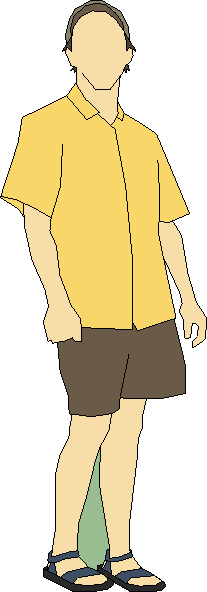
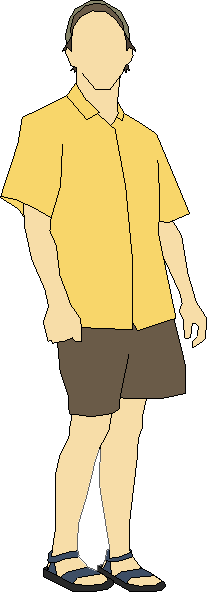
Two tutorials added

Changed region(s): [[0.3478, 0.7601, 0.5507, 0.973]]

diff --git a/src/main/java/org/concord/energy3d/gui/MainFrame.java b/src/main/java/org/concord/energy3d/gui/MainFrame.java
@@ -215,6 +215,7 @@ public class MainFrame extends JFrame {
 	private JCheckBoxMenuItem infoPanelCheckBoxMenuItem;
 	private JMenu templatesMenu;
 	private JMenu otherTemplatesMenu;
+	private JMenu tutorialsMenu;
 
 	private final FileChooser fileChooser;
 	private final JColorChooser colorChooser;
@@ -419,6 +420,7 @@ public class MainFrame extends JFrame {
 			appMenuBar.add(getViewMenu());
 			appMenuBar.add(getAnalysisMenu());
 			appMenuBar.add(getTemplatesMenu());
+			appMenuBar.add(getTutorialsMenu());
 			appMenuBar.add(getHelpMenu());
 
 			addCommonActionListeners(appMenuBar);
@@ -1154,47 +1156,71 @@ public class MainFrame extends JFrame {
 					MainPanel.getInstance().defaultTool();
 				}
 			});
-			addTemplate(templatesMenu, "Apartment 1", "templates/apartment-template-1.ng3");
-			addTemplate(templatesMenu, "Apartment 2", "templates/apartment-template-2.ng3");
-			addTemplate(templatesMenu, "Box Gabled Roof", "templates/box-gabled-template.ng3");
-			addTemplate(templatesMenu, "Bungalow", "templates/bungalow-template.ng3");
-			addTemplate(templatesMenu, "Butterfly Roof", "templates/butterfly-template.ng3");
-			addTemplate(templatesMenu, "Cape Cod", "templates/cape-cod-template.ng3");
-			addTemplate(templatesMenu, "Colonial", "templates/colonial-template.ng3");
-			addTemplate(templatesMenu, "Combination Roof", "templates/combination-roof-template.ng3");
-			addTemplate(templatesMenu, "Cross Gabled Roof", "templates/cross-gabled-template.ng3");
-			addTemplate(templatesMenu, "Cross Hipped Roof", "templates/cross-hipped-template.ng3");
-			addTemplate(templatesMenu, "Dutch Colonial", "templates/gambrel-template.ng3");
-			addTemplate(templatesMenu, "Flat Roof", "templates/flat-roof-template.ng3");
-			addTemplate(templatesMenu, "Gable & Valley Roof", "templates/gable-valley-template.ng3");
-			addTemplate(templatesMenu, "Gablet Roof", "templates/gablet-template.ng3");
-			addTemplate(templatesMenu, "Hip Roof", "templates/hip-roof-template.ng3");
-			addTemplate(templatesMenu, "Hip & Valley Roof", "templates/hip-valley-template.ng3");
-			addTemplate(templatesMenu, "M-Shaped Roof", "templates/m-shaped-template.ng3");
-			addTemplate(templatesMenu, "Mansard", "templates/mansard-template.ng3");
-			addTemplate(templatesMenu, "Saltbox 1", "templates/saltbox-template-1.ng3");
-			addTemplate(templatesMenu, "Saltbox 2", "templates/saltbox-template-2.ng3");
-			addTemplate(templatesMenu, "Shed Roof", "templates/shed-roof-template.ng3");
+			addModel(templatesMenu, "Apartment 1", "templates/apartment-template-1.ng3");
+			addModel(templatesMenu, "Apartment 2", "templates/apartment-template-2.ng3");
+			addModel(templatesMenu, "Box Gabled Roof", "templates/box-gabled-template.ng3");
+			addModel(templatesMenu, "Bungalow", "templates/bungalow-template.ng3");
+			addModel(templatesMenu, "Butterfly Roof", "templates/butterfly-template.ng3");
+			addModel(templatesMenu, "Cape Cod", "templates/cape-cod-template.ng3");
+			addModel(templatesMenu, "Colonial", "templates/colonial-template.ng3");
+			addModel(templatesMenu, "Combination Roof", "templates/combination-roof-template.ng3");
+			addModel(templatesMenu, "Cross Gabled Roof", "templates/cross-gabled-template.ng3");
+			addModel(templatesMenu, "Cross Hipped Roof", "templates/cross-hipped-template.ng3");
+			addModel(templatesMenu, "Dutch Colonial", "templates/gambrel-template.ng3");
+			addModel(templatesMenu, "Flat Roof", "templates/flat-roof-template.ng3");
+			addModel(templatesMenu, "Gable & Valley Roof", "templates/gable-valley-template.ng3");
+			addModel(templatesMenu, "Gablet Roof", "templates/gablet-template.ng3");
+			addModel(templatesMenu, "Hip Roof", "templates/hip-roof-template.ng3");
+			addModel(templatesMenu, "Hip & Valley Roof", "templates/hip-valley-template.ng3");
+			addModel(templatesMenu, "M-Shaped Roof", "templates/m-shaped-template.ng3");
+			addModel(templatesMenu, "Mansard", "templates/mansard-template.ng3");
+			addModel(templatesMenu, "Saltbox 1", "templates/saltbox-template-1.ng3");
+			addModel(templatesMenu, "Saltbox 2", "templates/saltbox-template-2.ng3");
+			addModel(templatesMenu, "Shed Roof", "templates/shed-roof-template.ng3");
 			templatesMenu.addSeparator();
 			otherTemplatesMenu = new JMenu("Others");
 			templatesMenu.add(otherTemplatesMenu);
-			addTemplate(otherTemplatesMenu, "Dome", "templates/dome-template.ng3");
-			addTemplate(otherTemplatesMenu, "Egyptian Pyramid", "templates/egyptian-pyramid-template.ng3");
-			addTemplate(otherTemplatesMenu, "Mayan Pyramid", "templates/mayan-pyramid-template.ng3");
-			addTemplate(otherTemplatesMenu, "Stadium", "templates/stadium-template.ng3");
+			addModel(otherTemplatesMenu, "Dome", "templates/dome-template.ng3");
+			addModel(otherTemplatesMenu, "Egyptian Pyramid", "templates/egyptian-pyramid-template.ng3");
+			addModel(otherTemplatesMenu, "Mayan Pyramid", "templates/mayan-pyramid-template.ng3");
+			addModel(otherTemplatesMenu, "Stadium", "templates/stadium-template.ng3");
 		}
 		return templatesMenu;
 	}
 
-	private void addTemplate(final JMenu menu, final String type, final String url) {
+	private void addModel(final JMenu menu, final String type, final String url) {
 		JMenuItem mi = new JMenuItem(type);
 		mi.addActionListener(new ActionListener() {
 			@Override
 			public void actionPerformed(ActionEvent e) {
-				openTemplate(MainApplication.class.getResource(url));
+				openModel(MainApplication.class.getResource(url));
 			}
 		});
 		menu.add(mi);
+	}
+
+	private JMenu getTutorialsMenu() {
+		if (tutorialsMenu == null) {
+			tutorialsMenu = new JMenu("Tutorials");
+			tutorialsMenu.addMenuListener(new MenuListener() {
+				@Override
+				public void menuCanceled(final MenuEvent e) {
+				}
+
+				@Override
+				public void menuDeselected(final MenuEvent e) {
+					SceneManager.getInstance().refresh();
+				}
+
+				@Override
+				public void menuSelected(final MenuEvent e) {
+					MainPanel.getInstance().defaultTool();
+				}
+			});
+			addModel(tutorialsMenu, "Solar Angles", "tutorials/solar-angles.ng3");
+			addModel(tutorialsMenu, "Solar Box", "tutorials/solar-box.ng3");
+		}
+		return tutorialsMenu;
 	}
 
 	private JMenu getViewMenu() {
@@ -2571,7 +2597,7 @@ public class MainFrame extends JFrame {
 		}
 	}
 
-	private void openTemplate(final URL url) {
+	private void openModel(final URL url) {
 		boolean ok = false;
 		if (Scene.getInstance().isEdited()) {
 			final int save = JOptionPane.showConfirmDialog(MainFrame.this, "Do you want to save changes?", "Save", JOptionPane.YES_NO_CANCEL_OPTION, JOptionPane.QUESTION_MESSAGE);

diff --git a/src/main/java/org/concord/energy3d/gui/EnergyPanel.java b/src/main/java/org/concord/energy3d/gui/EnergyPanel.java
@@ -15,8 +15,6 @@ import java.awt.Insets;
 import java.awt.event.ActionEvent;
 import java.awt.event.ActionListener;
 import java.text.DecimalFormat;
-import java.text.ParseException;
-import java.text.SimpleDateFormat;
 import java.util.Arrays;
 import java.util.Calendar;
 import java.util.Date;
@@ -158,18 +156,9 @@ public class EnergyPanel extends JPanel {
 		timeAndLocationPanel.add(createLabel("Date: "), gbc_dateLabel);
 
 		dateSpinner = createSpinner(new SpinnerDateModel(Calendar.getInstance().getTime(), null, null, Calendar.MONTH));
-		dateSpinner.setEditor(new JSpinner.DateEditor(dateSpinner, "MMMM dd"));
-		SimpleDateFormat sdf = new SimpleDateFormat("dd/MM/yyyy");
-		Date d = null;
-		try {
-			d = sdf.parse("9/30/2016");
-		} catch (ParseException e) {
-			e.printStackTrace();
-		}
-		if (d != null) {
-			dateSpinner.setValue(d);
-			dateSpinner.setPreferredSize(dateSpinner.getPreferredSize());
-		}
+		JSpinner.DateEditor dateEditor = new JSpinner.DateEditor(dateSpinner, "MMMM dd");
+		dateSpinner.setEditor(dateEditor);
+		dateEditor.getTextField().setColumns((int) ("September 30".length() * 0.7));
 		dateSpinner.addChangeListener(new ChangeListener() {
 			private boolean firstCall = true;
 			private Date lastDate;

diff --git a/src/main/java/org/concord/energy3d/model/Human.java b/src/main/java/org/concord/energy3d/model/Human.java
@@ -74,7 +74,7 @@ public class Human extends HousePart {
 		mesh.setModelBound(new BoundingBox());
 		mesh.updateModelBound();
 		mesh.setRotation(new Matrix3().fromAngles(Math.PI / 2, 0, 0));
-		translate(w, h, 1); // foundation height = 1 by default
+		translate(w, h, 0); // stand on the ground by default
 		mesh.setUserData(new UserData(this, 0, true));
 
 		final BlendState bs = new BlendState();
